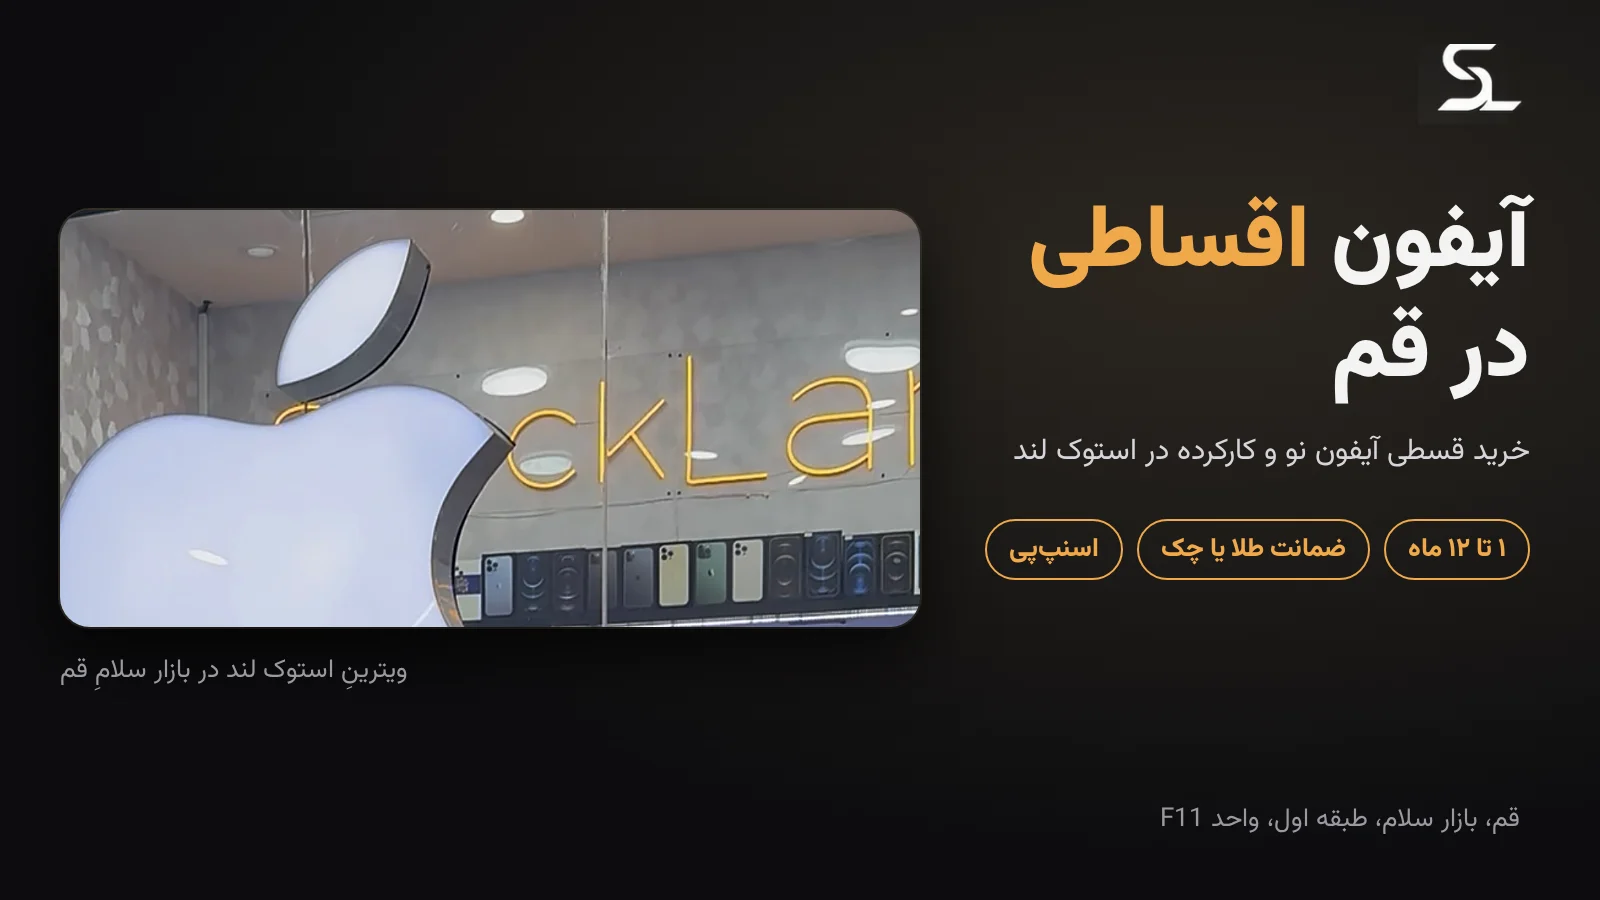
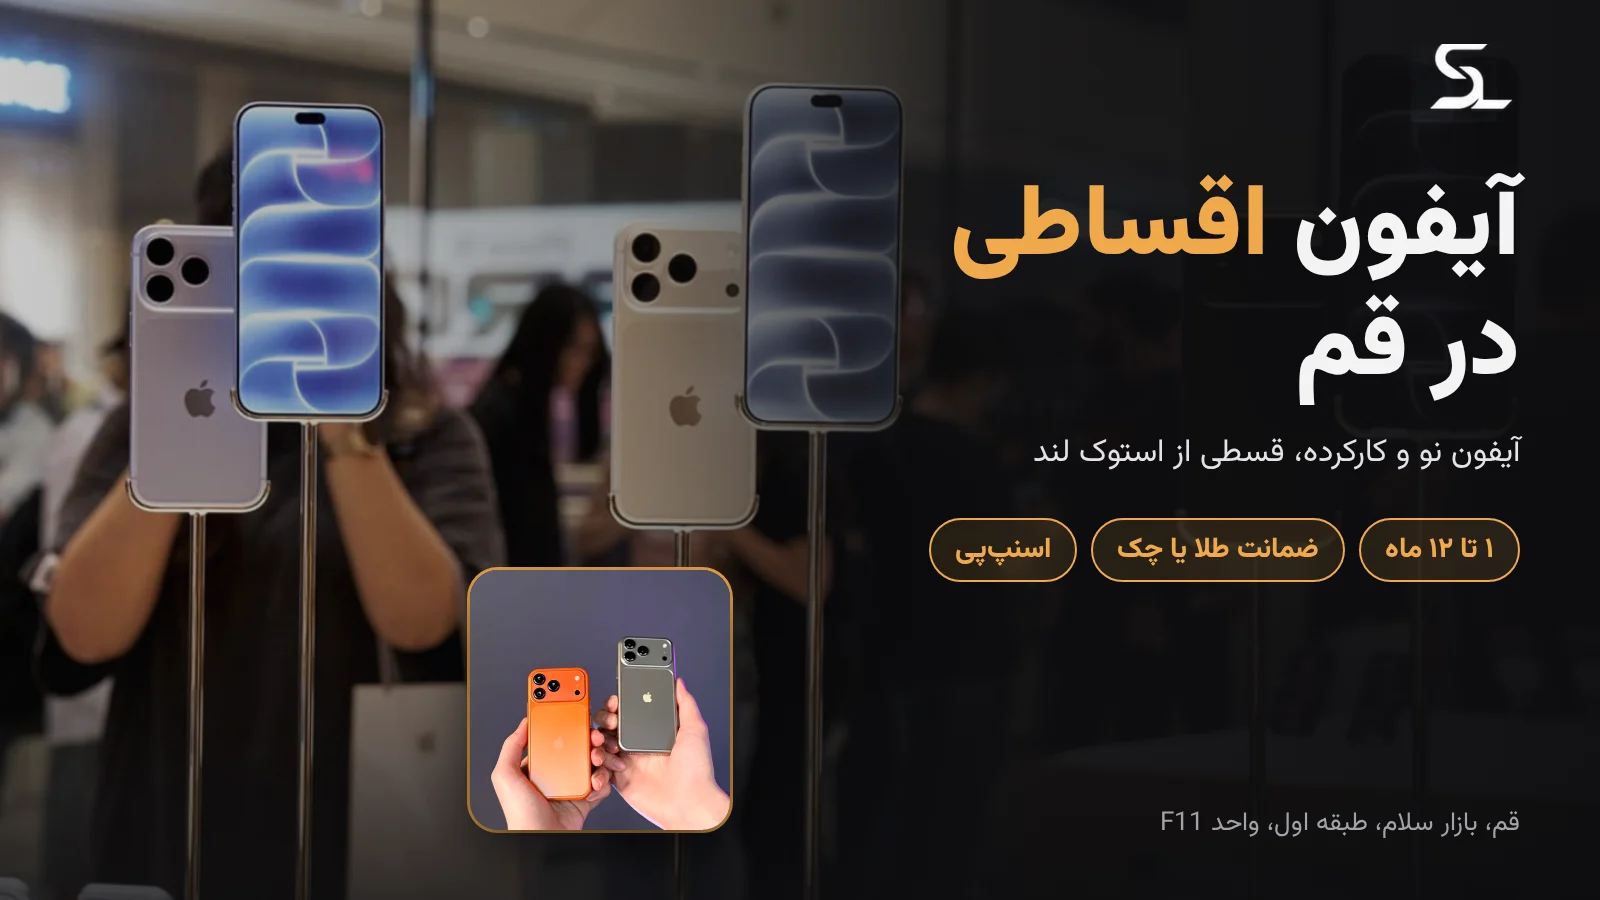
stland-home 1.54.8: new images for the installment article
Claude-Session: https://claude.ai/code/session_01BaUq8HkURtmYMZrPR7y34Y

diff --git a/wp-content/plugins/stland-home/content/posts/iphone-installment-qom.html b/wp-content/plugins/stland-home/content/posts/iphone-installment-qom.html
@@ -10,7 +10,7 @@
 <ul class="wp-block-list"><li><a href="#why">چرا آیفون اقساطی بخریم؟</a></li><li><a href="#terms">شرایط خرید آیفون اقساطی در استوک لند</a></li><li><a href="#steps">مراحل خرید قسطی، قدم به قدم</a></li><li><a href="#models">کدام آیفون را قسطی بخریم؟</a></li><li><a href="#pros">مزایا و معایب خرید اقساطی</a></li><li><a href="#tips">نکات مهم پیش از خرید</a></li><li><a href="#faq">پرسشهای متداول</a></li></ul>
 <!-- /wp:list -->
 
-{{img:store}}
+{{img:boxes}}
 
 <!-- wp:heading {"anchor":"why"} -->
 <h2 class="wp-block-heading" id="why">چرا خرید آیفون اقساطی در قم منطقی است؟</h2>
@@ -74,7 +74,7 @@
 <h2 class="wp-block-heading" id="models">کدام آیفون را قسطی بخریم؟</h2>
 <!-- /wp:heading -->
 
-{{img:boxes}}
+{{img:models}}
 
 <!-- wp:paragraph -->
 <p>مبلغِ هر قسط مستقیماً به قیمتِ گوشی بستگی دارد. پس پیش از خرید، مدلی را انتخاب کنید که هم نیازتان را برطرف کند و هم قسطش در بودجهی ماهانهتان جا شود:</p>

diff --git a/wp-content/plugins/stland-home/includes/posts.php b/wp-content/plugins/stland-home/includes/posts.php
@@ -104,9 +104,9 @@ const STLH_POSTS = [
 			'desc'  => 'خرید آیفون اقساطی در قم از استوک لند: آیفون نو و کارکرده با اقساط ۱ تا ۱۲ ماهه، ضمانت طلا یا چک معتبر و اسنپپی. مراحل خرید و نکات مهم را بخوانید.',
 			'kw'    => 'آیفون اقساطی در قم',
 		],
-		'thumb'    => [ 'file' => 'iphone-installment-qom-hero.webp', 'alt' => 'آیفون اقساطی در قم — فروشگاه استوک لند در بازار سلام' ],
+		'thumb'    => [ 'file' => 'iphone-installment-qom-hero.webp', 'alt' => 'آیفون اقساطی در قم؛ خرید قسطی آیفون نو و کارکرده از استوک لند' ],
 		'images'   => [
-			'store' => [ 'file' => 'stockland-store-qom.webp', 'alt' => 'فروشگاه استوک لند در مجتمع بازار سلام قم، واحد F11' ],
+			'models' => [ 'file' => 'iphone-installment-qom-models.webp', 'alt' => 'کدام آیفون را قسطی بخریم؛ آیفون نارنجی و نقرهای' ],
 			'steps' => [ 'file' => 'iphone-installment-qom-steps.webp', 'alt' => 'مراحل خرید آیفون اقساطی در استوک لند در ۵ قدم' ],
 			'boxes' => [ 'file' => 'stockland-iphone-boxes.webp', 'alt' => 'جعبههای آیفون نو در استوک لند قم' ],
 			'box'   => [ 'file' => 'stockland-iphone-box.webp', 'alt' => 'آیفون روی جعبهی اصلی در استوک لند' ],

diff --git a/wp-content/plugins/stland-home/stland-home.php b/wp-content/plugins/stland-home/stland-home.php
@@ -2,7 +2,7 @@
 /**
  * Plugin Name:       StockLand Home
  * Description:       صفحه اصلی داینامیک استوک لند — بنر، دستهها، ردیف محصولات، پیشنهاد ویژه، شبکهها، سوالات متداول و مقالات. شورتکد: [stl_home]
- * Version:           1.54.7
+ * Version:           1.54.8
  * Requires at least: 6.3
  * Requires PHP:      8.1
  * Requires Plugins:  woocommerce
@@ -11,7 +11,7 @@
 
 defined( 'ABSPATH' ) || exit;
 
-define( 'STLH_VER', '1.54.7' );
+define( 'STLH_VER', '1.54.8' );
 // نسخهی قرارداد با حسابداری (contract/card-meta.json) — پنلِ سلامتِ حسابداری با آن میسنجد
 define( 'STLH_CONTRACT', 5 );
 define( 'STLH_DIR', plugin_dir_path( __FILE__ ) );

diff --git a/تغییرات.md b/تغییرات.md
@@ -107,3 +107,4 @@
 | ۱۴۰۵/۰۷/۲۴ | `stland-home` ۱.۵۴.۵: پیشنویسِ «آیفون اقساطی در قم» (۴۴۸۴۹) بازنویسی و منتشر — حذفِ معرفیِ فروشگاههای رقیب و لینکهای بیرونیِ بیمتن، شرایطِ واقعیِ اقساطِ استوک لند (۱ تا ۱۲ ماه، طلا یا چک، اسنپپی)، عکسهای خودِ فروشگاه، طرحِ «۵ قدم»، پرسشهای متداول، لینکِ داخلی، سئوی Yoast، نامک `iphone-installment-qom` | صاحب فروشگاه: «پیشنویس را برای سئو مناسب کن، با عکسهای فروشگاه، و منتشر کن» | Release latest |
 | ۱۴۰۵/۰۷/۲۴ | `stland-home` ۱.۵۴.۶: پیشنویسِ تکراریِ «خرید اقساطی آیفون در قم» (۴۴۸۴۶) به زبالهدان (`STLH_POSTS_TRASH`، فقط اگر هنوز پیشنویس است؛ برگشتپذیر) | همکلیدواژه با «آیفون اقساطی در قم» (۴۴۸۴۹) و معرفیِ رقیبها؛ صاحب فروشگاه: «اگر از دید کارشناسی اشکال دارد پاکش کن» | Release latest |
 | ۱۴۰۵/۰۷/۲۴ | `stland-home` ۱.۵۴.۷: «آیفون اقساطی در قم» — عکسِ شاخص و عکسِ ویترین بیآدم و شفافتر (برش از بالای ویترین)؛ عکسها هم در نشانِ تغییرِ `STLH_POSTS`؛ پنج پیشنویسِ دیگر به زبالهدان؛ `docs/seo-plan.md` برنامهی ۳۰ روزهی محتوا | صاحب فروشگاه: «عکس بیکیفیت و آدمها بد ایستادهاند»؛ «پیشنویسها را پاک کن»؛ «برنامهی ۳۰ روزه» | Release latest |
+| ۱۴۰۵/۰۷/۲۵ | `stland-home` ۱.۵۴.۸: «آیفون اقساطی در قم» — عکسِ شاخصِ تازه (ویترینِ گوشیها با رنگبندیِ تازه + کارتِ دو آیفون) و طرحِ «کدام آیفون را قسطی بخریم؟» از عکسهای صاحب فروشگاه؛ عکسِ ویترینِ فروشگاه کنار رفت | صاحب فروشگاه: «عکس هنوز مناسب نیست، با عکسهای ارسالی بساز، معلوم نباشد کپی است» | Release latest |
